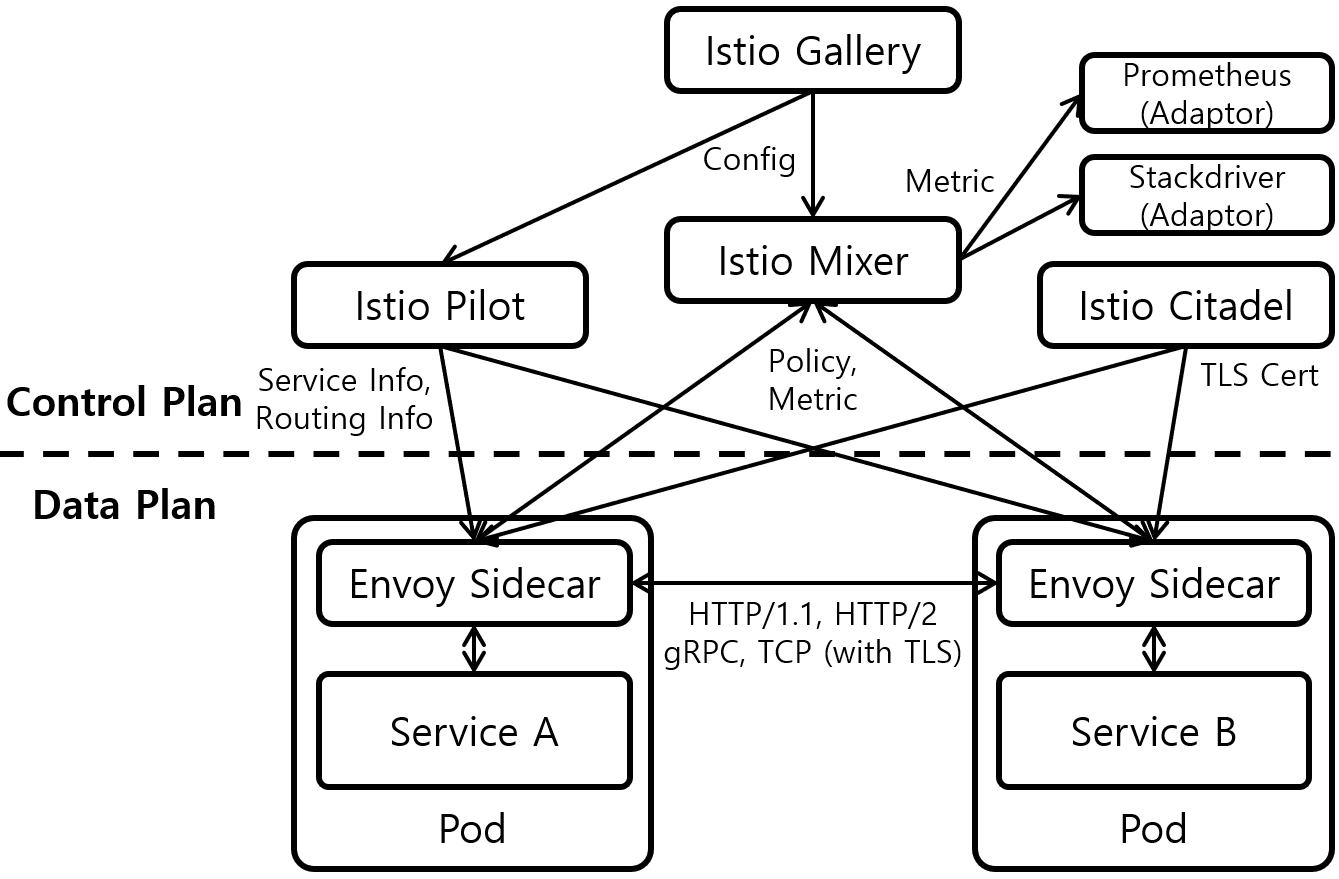
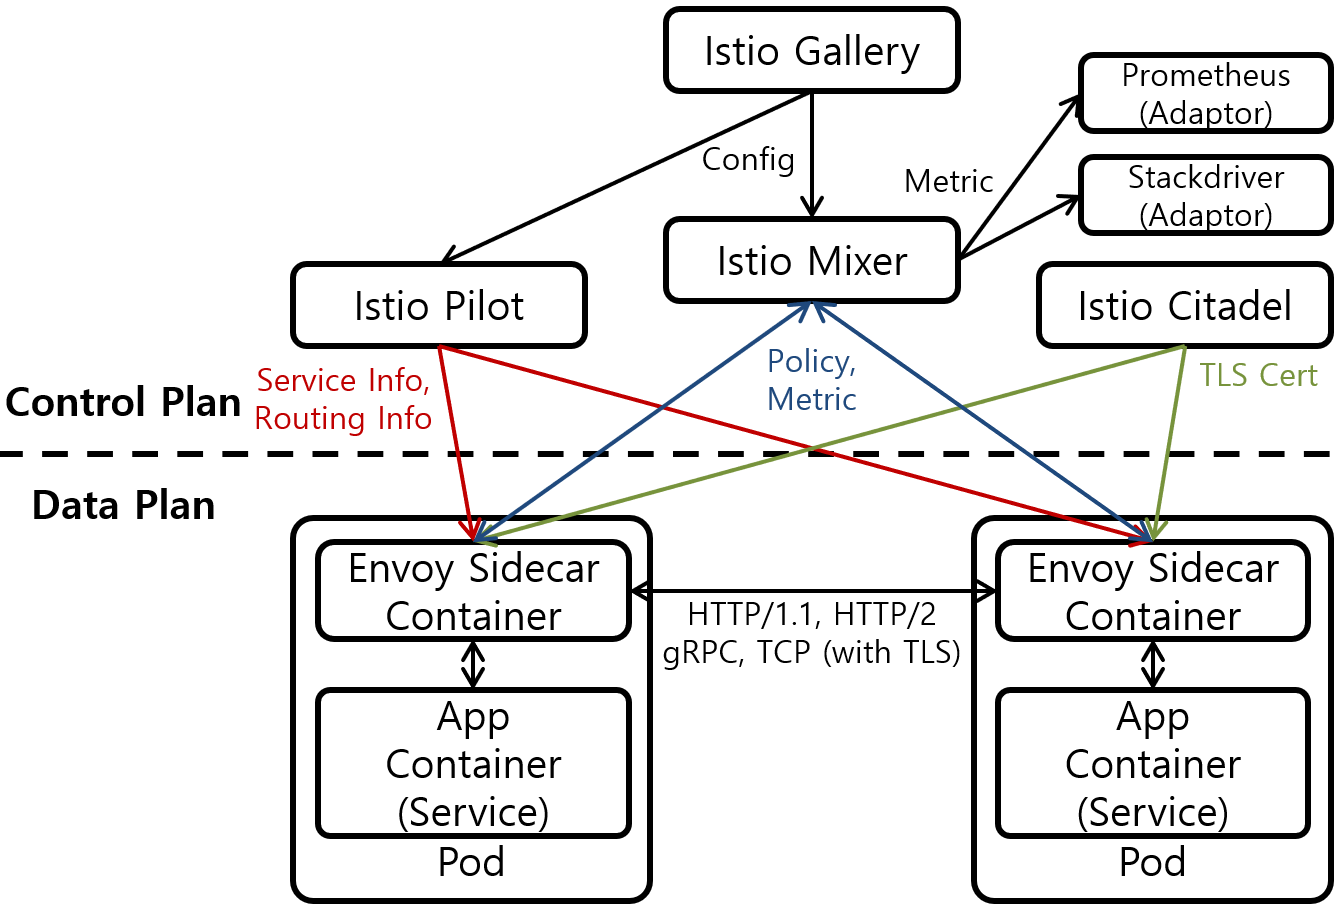
Update

diff --git a/_docs/theory_analysis/Istio_Sidecar.md b/_docs/theory_analysis/Istio_Sidecar.md
@@ -9,4 +9,61 @@ adsense: true
 
 ### 1. Istio Sidecar
 
+#### 1.1. Sidecar Injection
+
+![[그림 1] Istio Architecture]({{site.baseurl}}/images/theory_analysis/Istio_Sidecar/Istio_Sidecar.PNG){: width="500px"}
+
+#### 1.2. Packet Capture
+
+{% highlight console %}
+# iptables -t nat -nvL
+Chain PREROUTING (policy ACCEPT 11729 packets, 704K bytes)
+ pkts bytes target     prot opt in     out     source               destination
+11729  704K ISTIO_INBOUND  tcp  --  *      *       0.0.0.0/0            0.0.0.0/0
+
+Chain INPUT (policy ACCEPT 11729 packets, 704K bytes)
+ pkts bytes target     prot opt in     out     source               destination
+
+Chain OUTPUT (policy ACCEPT 1074 packets, 95511 bytes)
+ pkts bytes target     prot opt in     out     source               destination
+   54  3240 ISTIO_OUTPUT  tcp  --  *      *       0.0.0.0/0            0.0.0.0/0
+
+Chain POSTROUTING (policy ACCEPT 1077 packets, 95691 bytes)
+ pkts bytes target     prot opt in     out     source               destination
+
+Chain ISTIO_INBOUND (1 references)
+ pkts bytes target     prot opt in     out     source               destination
+    0     0 RETURN     tcp  --  *      *       0.0.0.0/0            0.0.0.0/0            tcp dpt:15008
+    0     0 RETURN     tcp  --  *      *       0.0.0.0/0            0.0.0.0/0            tcp dpt:22
+    0     0 RETURN     tcp  --  *      *       0.0.0.0/0            0.0.0.0/0            tcp dpt:15090
+11727  704K RETURN     tcp  --  *      *       0.0.0.0/0            0.0.0.0/0            tcp dpt:15021
+    2   120 RETURN     tcp  --  *      *       0.0.0.0/0            0.0.0.0/0            tcp dpt:15020
+    0     0 ISTIO_IN_REDIRECT  tcp  --  *      *       0.0.0.0/0            0.0.0.0/0
+
+Chain ISTIO_IN_REDIRECT (3 references)
+ pkts bytes target     prot opt in     out     source               destination
+    0     0 REDIRECT   tcp  --  *      *       0.0.0.0/0            0.0.0.0/0            redir ports 15006
+
+Chain ISTIO_OUTPUT (1 references)
+ pkts bytes target     prot opt in     out     source               destination
+    0     0 RETURN     all  --  *      lo      127.0.0.6            0.0.0.0/0
+    0     0 ISTIO_IN_REDIRECT  all  --  *      lo      0.0.0.0/0           !127.0.0.1            owner UID match 1337
+    0     0 RETURN     all  --  *      lo      0.0.0.0/0            0.0.0.0/0            ! owner UID match 1337
+   51  3060 RETURN     all  --  *      *       0.0.0.0/0            0.0.0.0/0            owner UID match 1337
+    0     0 ISTIO_IN_REDIRECT  all  --  *      lo      0.0.0.0/0           !127.0.0.1            owner GID match 1337
+    0     0 RETURN     all  --  *      lo      0.0.0.0/0            0.0.0.0/0            ! owner GID match 1337
+    0     0 RETURN     all  --  *      *       0.0.0.0/0            0.0.0.0/0            owner GID match 1337
+    0     0 RETURN     all  --  *      *       0.0.0.0/0            127.0.0.1
+    3   180 ISTIO_REDIRECT  all  --  *      *       0.0.0.0/0            0.0.0.0/0
+
+Chain ISTIO_REDIRECT (1 references)
+ pkts bytes target     prot opt in     out     source               destination
+    3   180 REDIRECT   tcp  --  *      *       0.0.0.0/0            0.0.0.0/0            redir ports 15001
+{% endhighlight %}
+<figure>
+<figcaption class="caption">[Console 1] Pod iptables NAT Table with Istio Sidecar</figcaption>
+</figure>
+
 ### 2. 참조
+
+* [https://istio.io/latest/docs/reference/config/networking/virtual-service/](https://istio.io/latest/docs/reference/config/networking/virtual-service/)

diff --git a/_docs/theory_analysis/Istio_Architecture.md b/_docs/theory_analysis/Istio_Architecture.md
@@ -13,9 +13,9 @@ adsense: true
 
 [그림 1]은 Istio Architecture를 나타내고 있다. istio는 istio를 제어하는 Control Plan과 Service 사이의 Data를 주고 받는 Data Plan으로 나눌수 있다.
 
-Control Plan은 Pliot, Mixer, Citadel, Mixer 4가지로 구성되어 있다. Pilot은 Service Discovery를 통해 얻은 Service 정보와 istio User가 설정한 Service Routing 정보를 Envoy에게 전달하여, Envoy가 적절한 Service에게 Packet을 Routing 하도록 도와준다. Mixer는 Service 사이의 Packet 허용 정책을 Envoy에게 전달하여, Service가 자신에게 허용된 다른 Service만 호출할 수 있도록 제한한다. 또한 Mixer는 Envoy를 통해 수집된 Metric 정보를 받아 Metric Collector 역활을 수행하는 Adaptor로 Metric 정보를 전달한다. 대표적인 Adaptor로는 Prometheus가 존재한다. Citadel은 Envoy에게 인증서를 전달하여 Envoy 사이의 통신 보안을 담당한다. 마지막으로 Gallery는 Control Plan의 나머지 구성요소들을 설정하고 관리하는 역할을 수행한다.
+Control Plan은 Pliot, Mixer, Citadel, Mixer 4가지로 구성되어 있다. Pilot은 Service Discovery를 통해 얻은 Service 정보와 istio User가 설정한 Service Routing 정보를 Envoy에게 전달하여, Envoy가 적절한 Service(App)에게 Packet을 Routing 하도록 도와준다. Mixer는 Service 사이의 Packet 허용 정책을 Envoy에게 전달하여, Service가 자신에게 허용된 다른 Service만 호출할 수 있도록 제한한다. 또한 Mixer는 Envoy를 통해 수집된 Metric 정보를 받아 Metric Collector 역활을 수행하는 Adaptor로 Metric 정보를 전달한다. 대표적인 Adaptor로는 Prometheus가 존재한다. Citadel은 Envoy에게 인증서를 전달하여 Envoy 사이의 통신 보안을 담당한다. 마지막으로 Gallery는 Control Plan의 나머지 구성요소들을 설정하고 관리하는 역할을 수행한다.
 
-Data Plan에는 Envoy가 존재한다. Envoy는 모든 Service Pod에서 동작하며, Service가 전송한 모든 Packet을 받아 대신 전송하고, Service가 수신해야하는 모든 Packet을 대신 수신하여 Service에게 전달하는 **Sidecar** 역할을 수행한다. Envoy는 Control Plan의 구성요소들의 도움을 받아 Service Load Balancing, Circuit Breaker, Healt Check 등의 기능을 수행하여 Packet을 적절한 Service에게 전달하는 역할을 수행한다. 또한 Envoy가 전송/전달 받는 Packet의 Metric 정보 수집하고 Mixer에게 전달한다. Envoy 사이의 통신은 HTTP/1.1, HTTP/2, gRPC, TCP등의 다양한 Protocol을 지원한다.
+Data Plan에는 Envoy가 존재한다. Envoy는 모든 Service(App) Pod의 별도의 Container 안에서 동작하며, Service가 전송한 모든 Packet을 받아 대신 전송하고, Service가 수신해야하는 모든 Packet을 대신 수신하여 Service에게 전달하는 **Sidecar** 역할을 수행한다. Envoy는 Control Plan의 구성요소들의 도움을 받아 Service Load Balancing, Circuit Breaker, Healt Check 등의 기능을 수행하여 Packet을 적절한 Service에게 전달하는 역할을 수행한다. 또한 Envoy가 전송/전달 받는 Packet의 Metric 정보 수집하고 Mixer에게 전달한다. Envoy 사이의 통신은 HTTP/1.1, HTTP/2, gRPC, TCP등의 다양한 Protocol을 지원한다.
 
 ![[그림 2] Istio Architecture After v1.5]({{site.baseurl}}/images/theory_analysis/Istio_Architecture/Istio_Architecture_1.5.PNG){: width="600px"}
 
